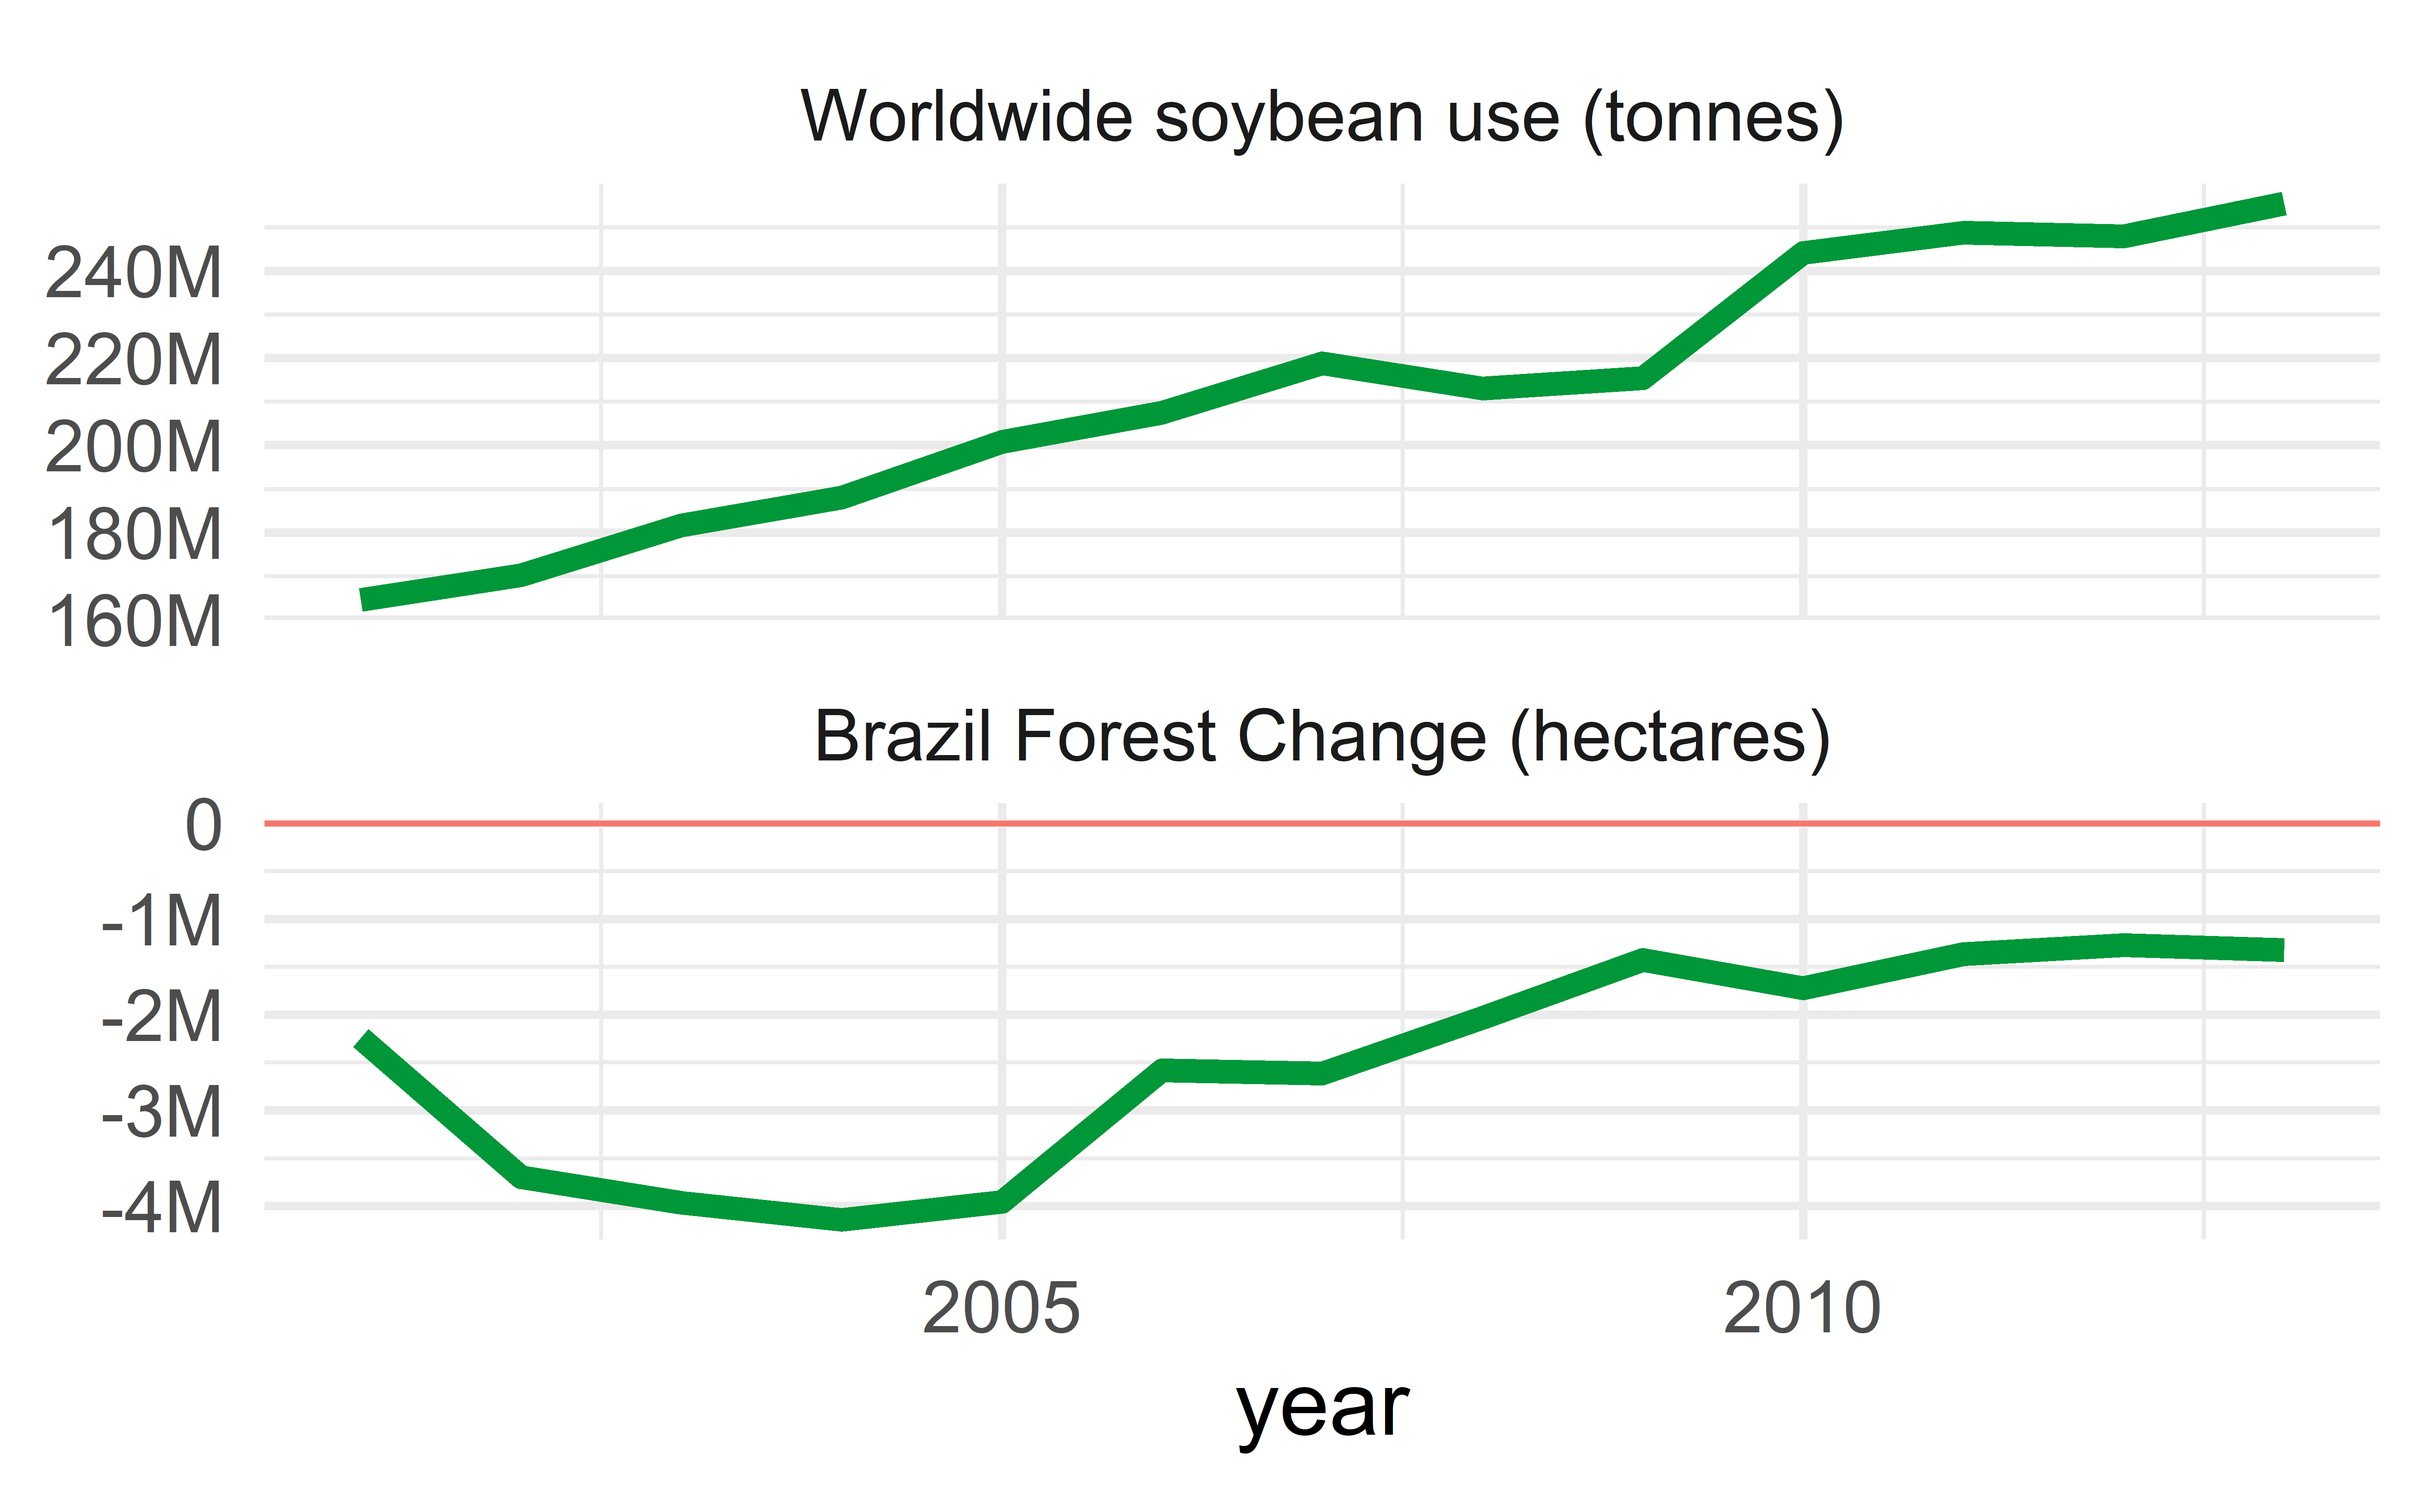
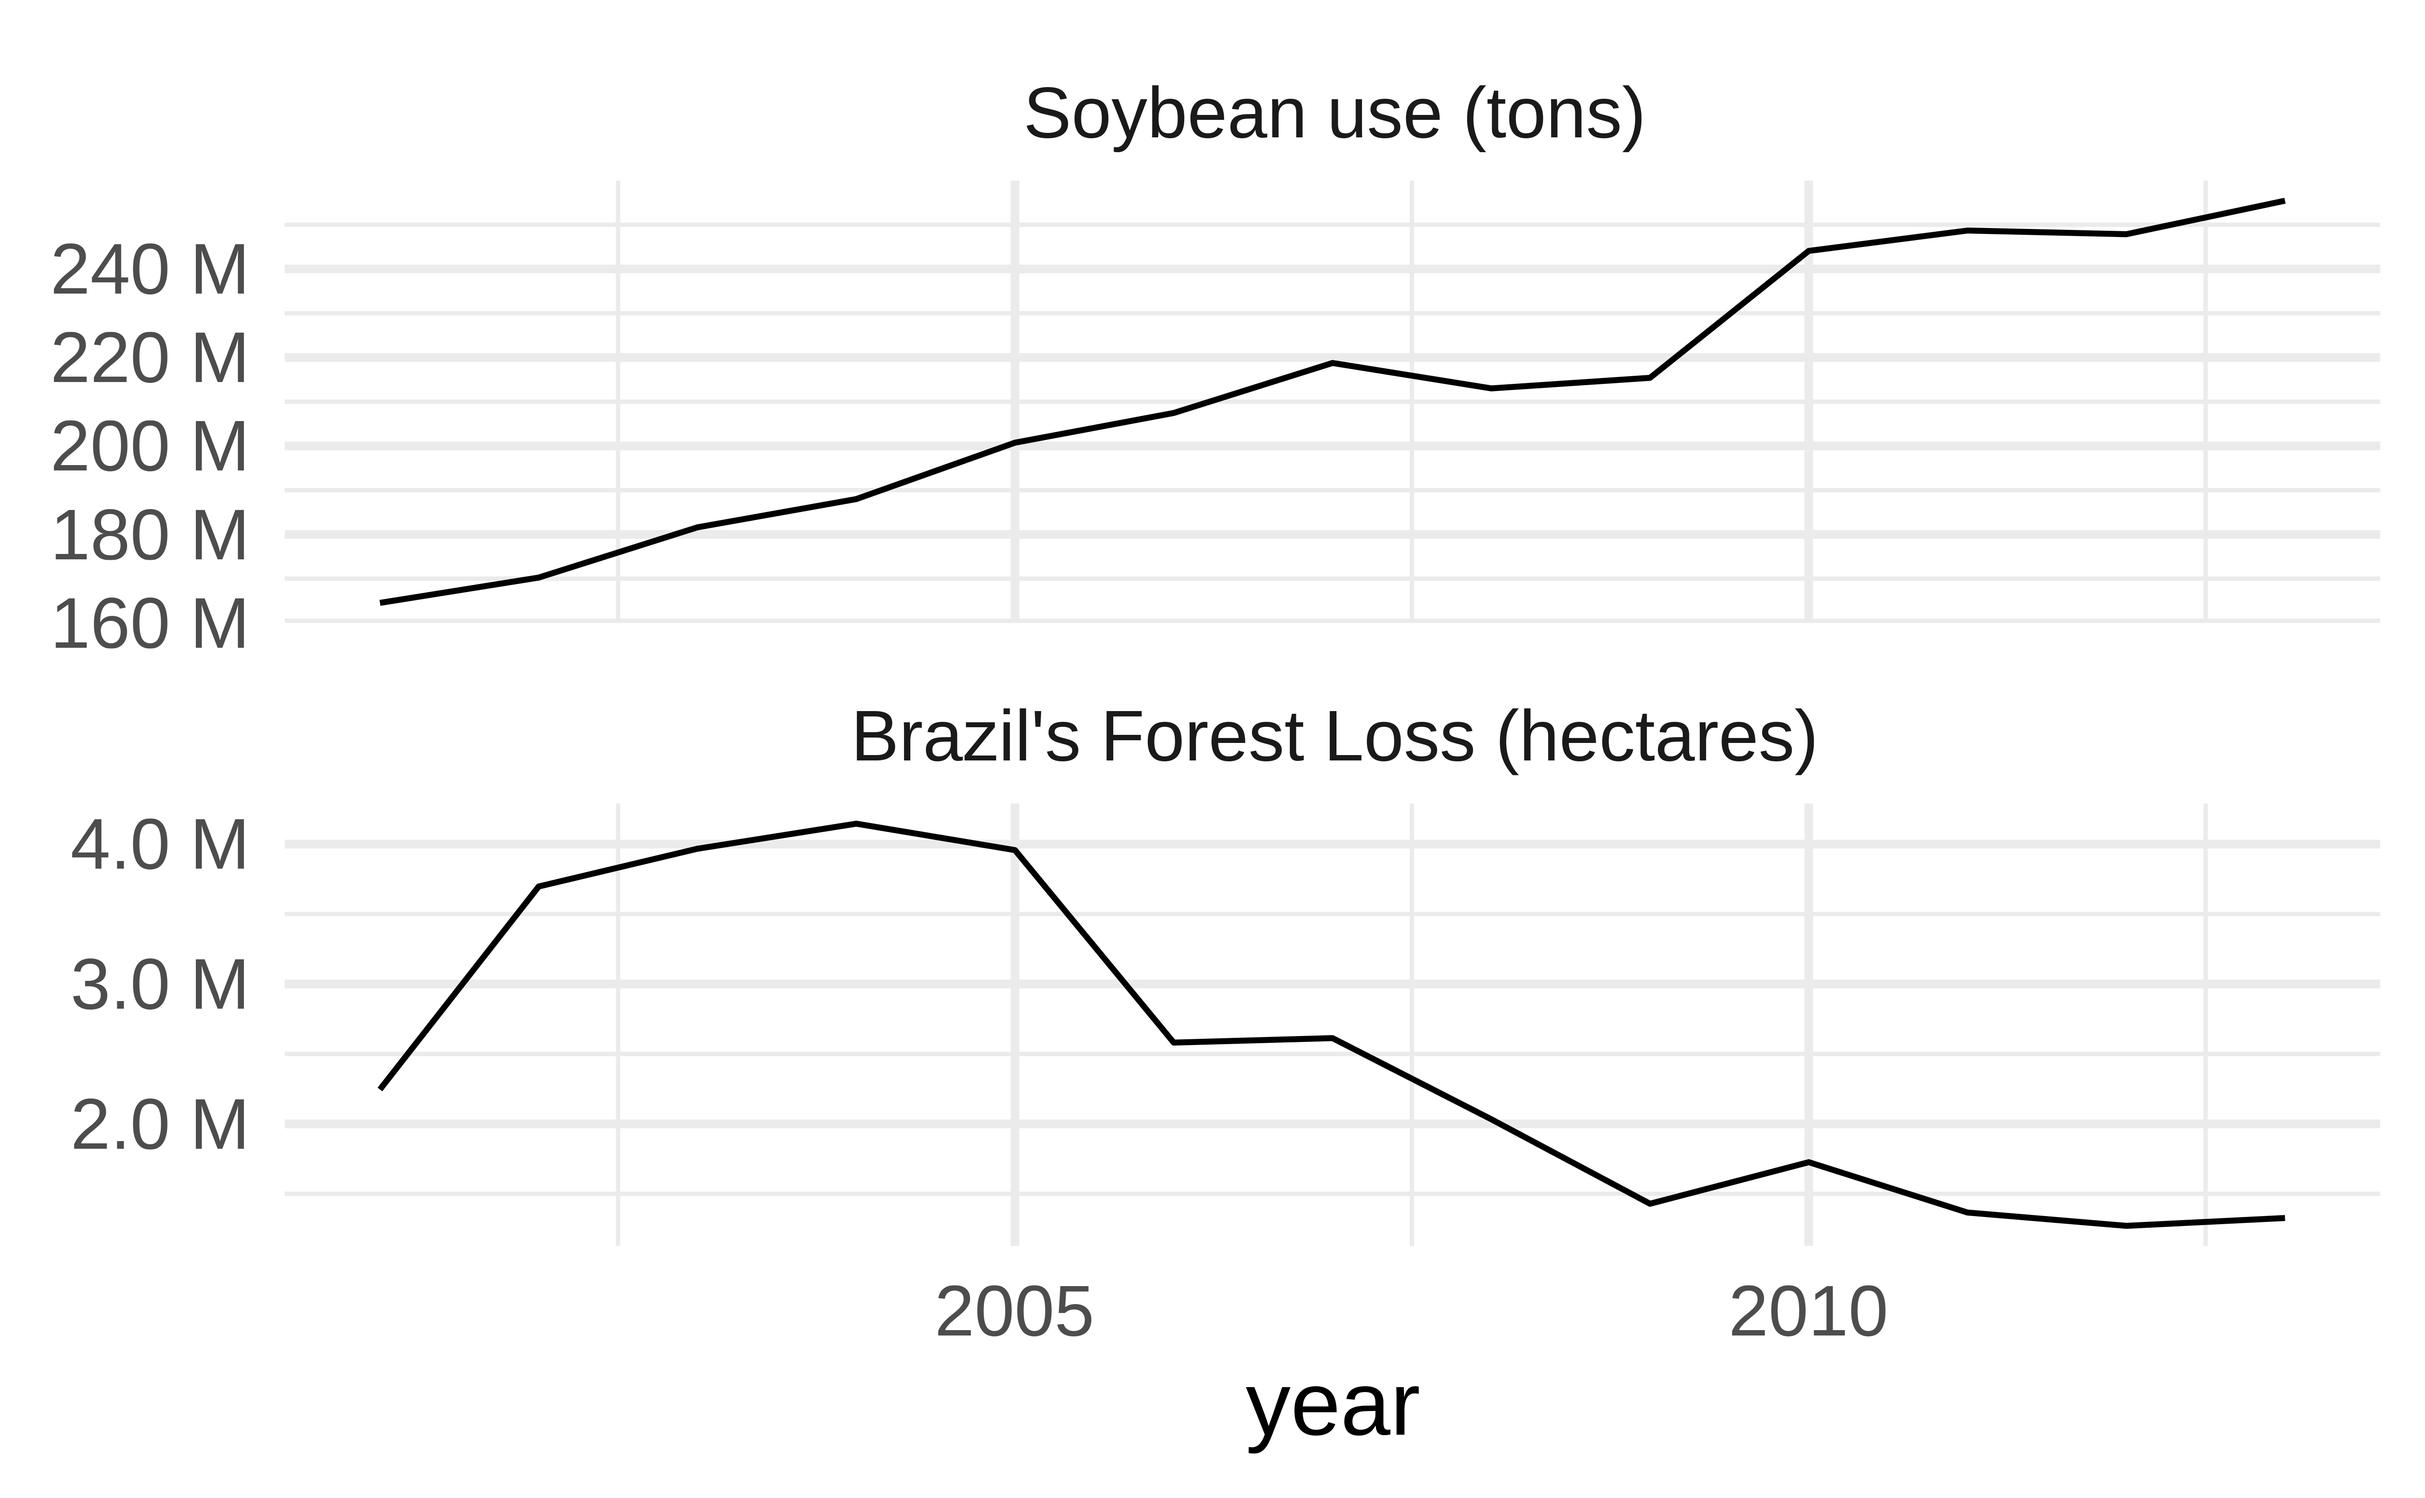
Q2 edits,

diff --git a/presentation/presentation.html b/presentation/presentation.html
@@ -5,7 +5,6 @@
     <meta charset="utf-8" />
     <meta name="author" content="Team 5 Look Alive   Krystal Hu, Kate Neal, Owen Henry" />
     <meta name="date" content="2021-09-30" />
-    <script src="libs/header-attrs-2.11/header-attrs.js"></script>
     <link rel="stylesheet" href="xaringan-themer.css" type="text/css" />
   </head>
   <body>
@@ -31,33 +30,41 @@ class: center, middle, inverse, title-slide
 class: inverse, middle, center
 
 # Question One
-## What countries are driving the growing of Brazil’s soybean crops? What is the relationship between soybean production and deforestation in Brazil?
+### What is the relationship between global soybean use and deforestation in Brazil? What countries are driving the growing of Brazil’s commercial soybean crops?
 
 ---
-## World Forest Data
-
-&lt;img src="presentation_files/figure-html/total_deforestation_by_country-1.png" width="70%" /&gt;
+## Code for Q1
 
 
+```r
+forest_data &lt;- merge(forest, forest_area, by=c("code", "year"))
 
+world_soybean_use &lt;- soybean_use %&gt;%
+  filter(entity == "World")
 
----
-## Brazil Forest Loss
+world_soybean_total &lt;- world_soybean_use %&gt;%
+  rowwise() %&gt;%
+  mutate(total = sum(human_food, animal_feed, processed))
 
-&lt;img src="presentation_files/figure-html/cumulative_brazil_only-1.png" width="70%" /&gt;
+brazil_loss$total_brazil_forest_loss_hectares = rowSums(brazil_loss[,5:15])
+brazil_loss_soybean_use &lt;- merge(brazil_loss, world_soybean_total, by = c("year")) %&gt;%
+  select(year, total_brazil_forest_loss_hectares, total) %&gt;%
+  mutate(forest_loss_km2 = total / 100) %&gt;%
+  select(-4)
 
+all_soybean_use &lt;- soybean_use %&gt;%
+  rowwise() %&gt;%
+  mutate(total = sum(human_food, animal_feed, processed, na.rm = T))
 
----
-## Soybean Use Over Time
+soybean_total &lt;- all_soybean_use %&gt;%
+  group_by(year) %&gt;%
+  summarise(world_soybean_use = sum(total, na.rm = T))
 
-&lt;img src="presentation_files/figure-html/unnamed-chunk-1-1.png" width="70%" /&gt;
-
-
----
-## Soybean Use Over Time
-
-
-&lt;img src="presentation_files/figure-html/unnamed-chunk-2-1.png" title="interpretation." alt="interpretation." width="70%" /&gt;
+brazil_loss_soybean_use &lt;- brazil_loss_soybean_use %&gt;%
+  pivot_longer(!year,
+              names_to = "x1",
+              values_to = "values")
+```
 
 ---
 ## Plot for Q1
@@ -151,21 +158,63 @@ class: inverse, middle, center
 
 ## Plot 1
 .center[
-&lt;img src="presentation_files/figure-html/question_2_plot-1.png" width="70%" style="display: block; margin: auto;" /&gt;
+&lt;img src="presentation_files/figure-html/soybean_share_by_usage-1.png" width="70%" style="display: block; margin: auto;" /&gt;
 ]
 
 ---
 ## 2. Plot the rate of global deforestation 
 
 .pull-left[
+####Net forest conversion: The net change in forest area (loss and gain) describes the sum of all changes in forest area over a specific period of time (including reductions due to deforestation and disasters, and increases due to afforestation and expansion of forests during the period).
+
 - Calculate share of global forest area by year
 - Plot percentage of global forest area, `forest_area`, as points in the above graph and connect the dots with a distinguishable line. 
 ]
 
-
+&lt;table&gt;
+ &lt;thead&gt;
+  &lt;tr&gt;
+   &lt;th style="text-align:right;"&gt; X &lt;/th&gt;
+   &lt;th style="text-align:left;"&gt; entity &lt;/th&gt;
+   &lt;th style="text-align:left;"&gt; code &lt;/th&gt;
+   &lt;th style="text-align:right;"&gt; year &lt;/th&gt;
+   &lt;th style="text-align:right;"&gt; net_forest_conversion &lt;/th&gt;
+  &lt;/tr&gt;
+ &lt;/thead&gt;
+&lt;tbody&gt;
+  &lt;tr&gt;
+   &lt;td style="text-align:right;"&gt; 465 &lt;/td&gt;
+   &lt;td style="text-align:left;"&gt; World &lt;/td&gt;
+   &lt;td style="text-align:left;"&gt; OWID_WRL &lt;/td&gt;
+   &lt;td style="text-align:right;"&gt; 1990 &lt;/td&gt;
+   &lt;td style="text-align:right;"&gt; -7818000 &lt;/td&gt;
+  &lt;/tr&gt;
+  &lt;tr&gt;
+   &lt;td style="text-align:right;"&gt; 466 &lt;/td&gt;
+   &lt;td style="text-align:left;"&gt; World &lt;/td&gt;
+   &lt;td style="text-align:left;"&gt; OWID_WRL &lt;/td&gt;
+   &lt;td style="text-align:right;"&gt; 2000 &lt;/td&gt;
+   &lt;td style="text-align:right;"&gt; -5117000 &lt;/td&gt;
+  &lt;/tr&gt;
+  &lt;tr&gt;
+   &lt;td style="text-align:right;"&gt; 467 &lt;/td&gt;
+   &lt;td style="text-align:left;"&gt; World &lt;/td&gt;
+   &lt;td style="text-align:left;"&gt; OWID_WRL &lt;/td&gt;
+   &lt;td style="text-align:right;"&gt; 2010 &lt;/td&gt;
+   &lt;td style="text-align:right;"&gt; -4801000 &lt;/td&gt;
+  &lt;/tr&gt;
+  &lt;tr&gt;
+   &lt;td style="text-align:right;"&gt; 468 &lt;/td&gt;
+   &lt;td style="text-align:left;"&gt; World &lt;/td&gt;
+   &lt;td style="text-align:left;"&gt; OWID_WRL &lt;/td&gt;
+   &lt;td style="text-align:right;"&gt; 2015 &lt;/td&gt;
+   &lt;td style="text-align:right;"&gt; -5150000 &lt;/td&gt;
+  &lt;/tr&gt;
+&lt;/tbody&gt;
+&lt;/table&gt;
 
 .pull-right[
-
+&lt;img src="presentation_files/figure-html/global_deforestation_rate-1.png" width="70%" /&gt;
 
 ]
 
